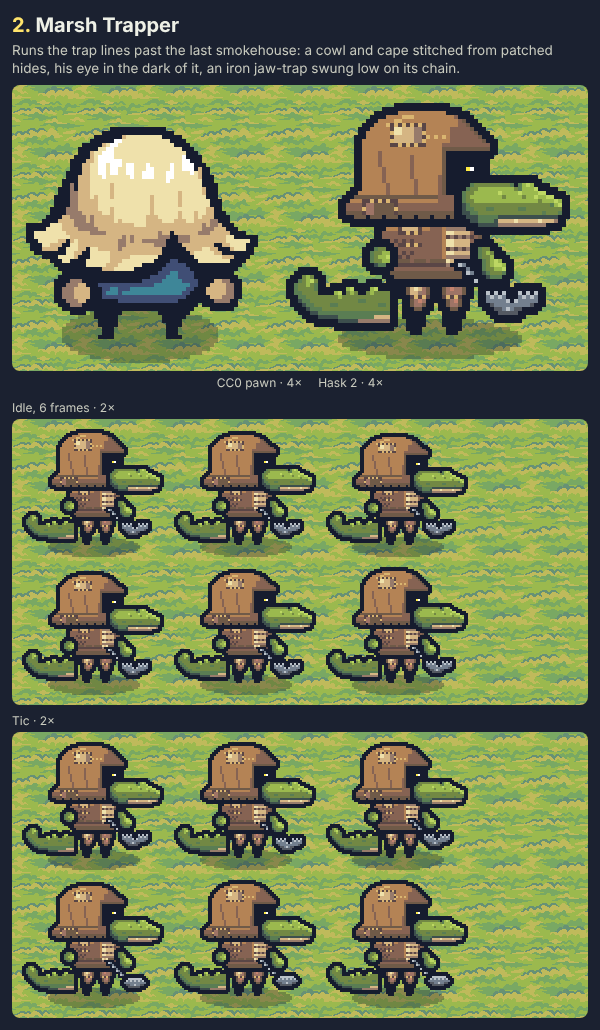
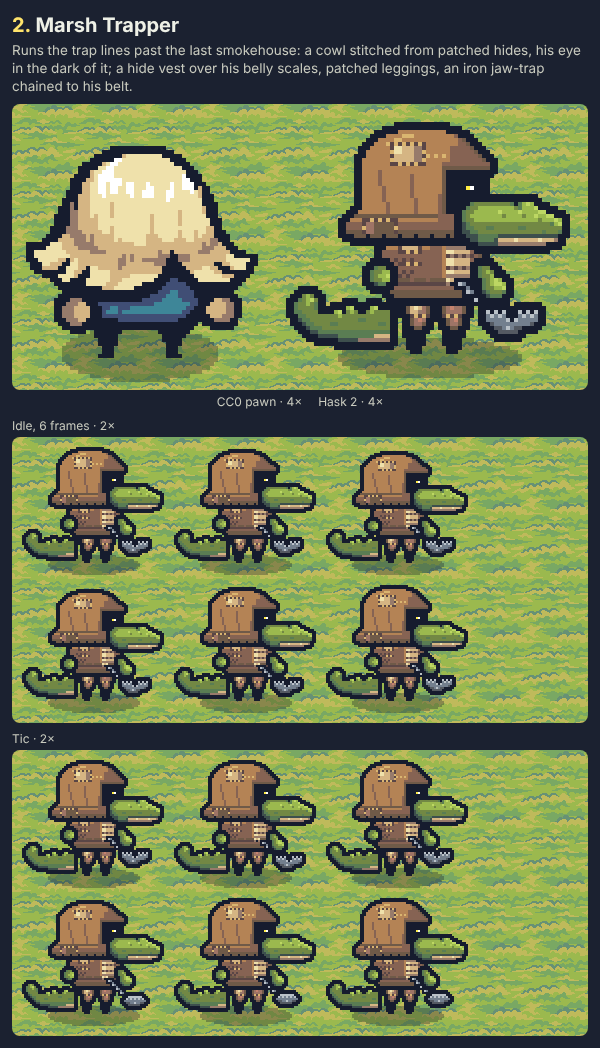
Hask: the top three's captions name their new bodies
Claude-Session: https://claude.ai/code/session_018uj2v7KuxpnPRQV4YJVgs7

diff --git a/scripts/designs/hask-d03.ts b/scripts/designs/hask-d03.ts
@@ -3,9 +3,10 @@
  *
  * Poles the salt barges down the reed channels to the smokehouses: a broad
  * flat reed cone hat, ribbed and lashed at the peak with a reed tuft, wider
- * than he is; a linen smock with a brine-red sash; the barge pole held low
- * across him in both fists, its foot in the water ahead. Silhouette: a wide
- * low cone over a snout. Tic: he leans in and pushes, the pole slides back.
+ * than he is; his own body: a short oilcloth smock, a rope belt, a
+ * salt-crusted hem, bare scaled arm and legs; the barge pole in his near
+ * fist, set from behind his back into the water ahead. Silhouette: a wide
+ * cone over a snout, a smock on two legs. Tic: he leans in and pushes, the pole slides back.
  */
 import type { Design } from './hask-lib'
 import { PAL, FEET, SHADOW_W, SNOUT, TAIL, TAIL_DOWN } from './hask-common'
@@ -117,7 +118,7 @@ const POLE = [
 export const D03: Design = {
   id: 'd03',
   title: 'Salt-Barge Poleman',
-  concept: 'Poles the salt barges down the reed channels: a broad ribbed reed cone wider than he is, a linen smock and brine-red sash, the barge pole held low across him.',
+  concept: 'Poles the salt barges down the reed channels: a broad ribbed reed cone wider than he is, a short oilcloth smock with a rope belt and a salt-crusted hem, bare scaled legs, the pole set from behind him into the water.',
   pal: PAL,
   headBottom: 48,
   parts: [

diff --git a/scripts/designs/hask-d02.ts b/scripts/designs/hask-d02.ts
@@ -3,9 +3,10 @@
  *
  * Runs the trap lines out past the last smokehouse: a deep hood and shoulder cape
  * stitched together from patched hides, his snout and one eye out of the
- * dark of it; an iron jaw-trap swings from his fist on its
- * chain, low at his side. Silhouette: a round patched cowl flaring to a ragged
- * cape. Tic: he gives the trap a shake and it snaps shut.
+ * dark of it; his own body: a patched hide vest laced over his belly
+ * scales, strapped hide leggings planted wide; an iron jaw-trap in his fist,
+ * its chain to his belt. Silhouette: a round patched cowl over a vest on
+ * two legs. Tic: he gives the trap a shake and it snaps shut.
  */
 import type { Design } from './hask-lib'
 import { PAL, FEET, SHADOW_W, SNOUT, TAIL, TAIL_UP } from './hask-common'
@@ -126,7 +127,7 @@ const TRAP_SHUT = [
 export const D02: Design = {
   id: 'd02',
   title: 'Marsh Trapper',
-  concept: 'Runs the trap lines past the last smokehouse: a cowl and cape stitched from patched hides, his eye in the dark of it, an iron jaw-trap swung low on its chain.',
+  concept: 'Runs the trap lines past the last smokehouse: a cowl stitched from patched hides, his eye in the dark of it; a hide vest over his belly scales, patched leggings, an iron jaw-trap chained to his belt.',
   pal: PAL,
   headBottom: 46,
   parts: [

diff --git a/scripts/designs/hask-d06.ts b/scripts/designs/hask-d06.ts
@@ -3,8 +3,9 @@
  *
  * Runs untaxed salt through the reed channels by night: a deep woven reed
  * basket hat over his whole head, one eye glinting through its viewing slit,
- * his snout out under the rim; a dusk-plum cloak; a shuttered lantern held
- * low at his side. Silhouette: a tall round basket over a snout. Tic: he
+ * his snout out under the rim; his own body: a low-slung cloak of hanging
+ * reed over a hunched back, with hidden pockets; a shuttered lantern held
+ * low at his side. Silhouette: a tall basket over a hump of reed. Tic: he
  * shutters the lantern, the eye in the slit glances back, the light comes on.
  */
 import type { Design } from './hask-lib'
@@ -129,7 +130,7 @@ const LANTERN_SHUT = [
 export const D06: Design = {
   id: 'd06',
   title: 'Reed Smuggler',
-  concept: 'Runs untaxed salt through the reed channels by night: a deep woven basket hat over his whole head, one eye glinting through its slit, a dusk-plum cloak, a shuttered lantern held low.',
+  concept: 'Runs untaxed salt through the reed channels by night: a deep woven basket hat over his whole head, one eye glinting through its slit, a low-slung reed cloak over a hunched back, hidden pockets, a shuttered lantern held low.',
   pal: PAL,
   headBottom: 48,
   parts: [
